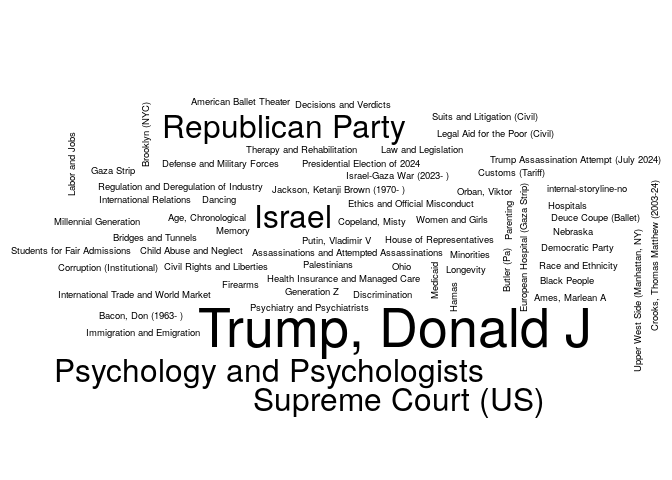
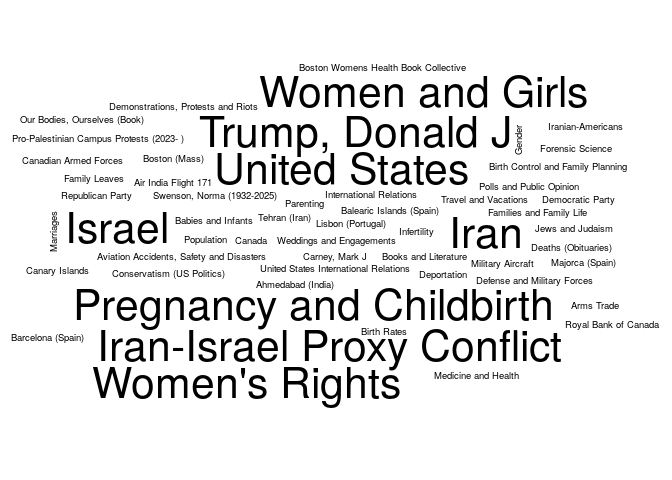
Updating the NYT report

Changed region(s): [[0.0, 0.125, 1.0, 0.875]]

diff --git a/03-nytimes/README.md b/03-nytimes/README.md
@@ -5,7 +5,7 @@ The following is an example of how to use the [NYTimes
 API](https://developer.nytimes.com/) to get a list of articles related
 to a particular term. Here we are searching articles that include the
 term `"health"`, and that were published up to seven days ago since
-2025-06-09.
+2025-06-16.
 
 ``` r
 # Preparing a function to use the GET method with the NYTimes API
@@ -83,25 +83,25 @@ colnames(tab) <- c("Keyword", "# Articles")
 knitr::kable(tab, row.names = FALSE)
 ```
 
-| Keyword                                     | \# Articles |
-|:--------------------------------------------|------------:|
-| United States Politics and Government       |          20 |
-| Trump, Donald J                             |          15 |
-| Israel                                      |          10 |
-| Psychology and Psychologists                |          10 |
-| Republican Party                            |          10 |
-| Supreme Court (US)                          |          10 |
-| Age, Chronological                          |           5 |
-| American Ballet Theater                     |           5 |
-| Ames, Marlean A                             |           5 |
-| Assassinations and Attempted Assassinations |           5 |
-| Bacon, Don (1963- )                         |           5 |
-| Black People                                |           5 |
-| Bridges and Tunnels                         |           5 |
-| Brooklyn (NYC)                              |           5 |
-| Butler (Pa)                                 |           5 |
-| Child Abuse and Neglect                     |           5 |
-| Civil Rights and Liberties                  |           5 |
-| Copeland, Misty                             |           5 |
-| Corruption (Institutional)                  |           5 |
-| Crooks, Thomas Matthew (2003-24)            |           5 |
+| Keyword                                  | \# Articles |
+|:-----------------------------------------|------------:|
+| War and Armed Conflicts                  |          15 |
+| Iran                                     |          10 |
+| Iran-Israel Proxy Conflict               |          10 |
+| Israel                                   |          10 |
+| Pregnancy and Childbirth                 |          10 |
+| Trump, Donald J                          |          10 |
+| United States                            |          10 |
+| United States Politics and Government    |          10 |
+| Women and Girls                          |          10 |
+| Women’s Rights                           |          10 |
+| Ahmedabad (India)                        |           5 |
+| Air India Flight 171                     |           5 |
+| Arms Trade                               |           5 |
+| Aviation Accidents, Safety and Disasters |           5 |
+| Babies and Infants                       |           5 |
+| Balearic Islands (Spain)                 |           5 |
+| Barcelona (Spain)                        |           5 |
+| Birth Control and Family Planning        |           5 |
+| Birth Rates                              |           5 |
+| Books and Literature                     |           5 |
